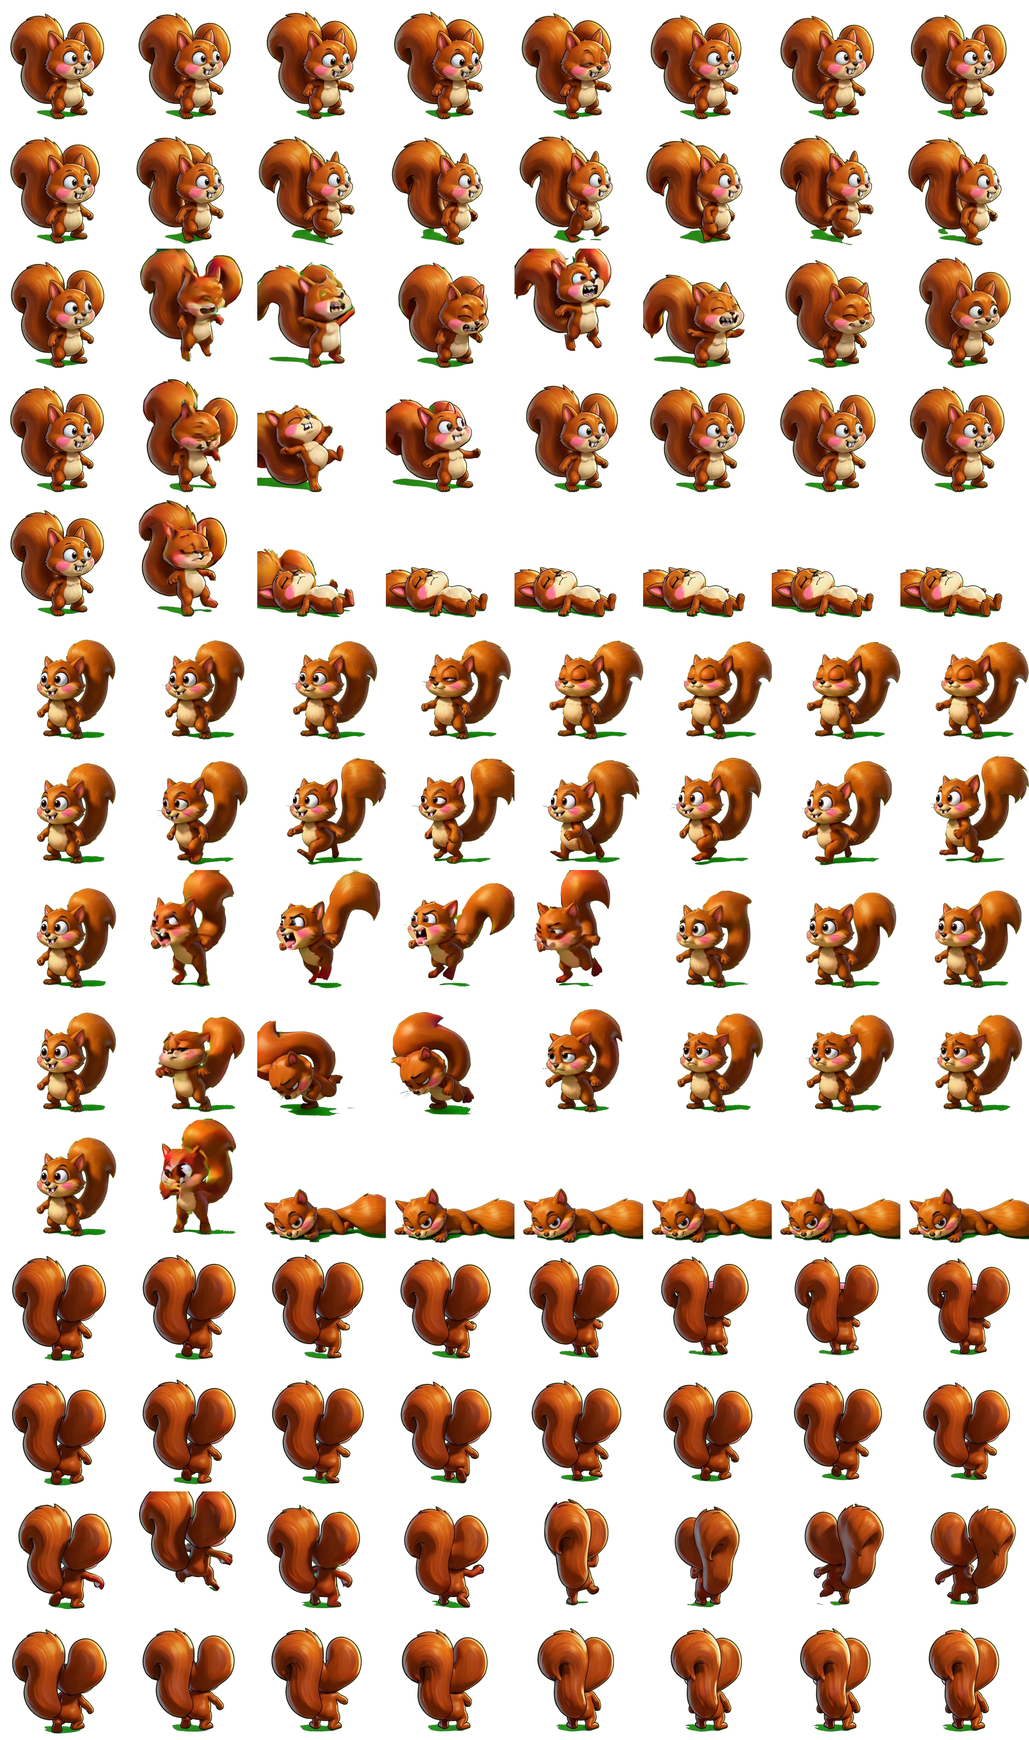
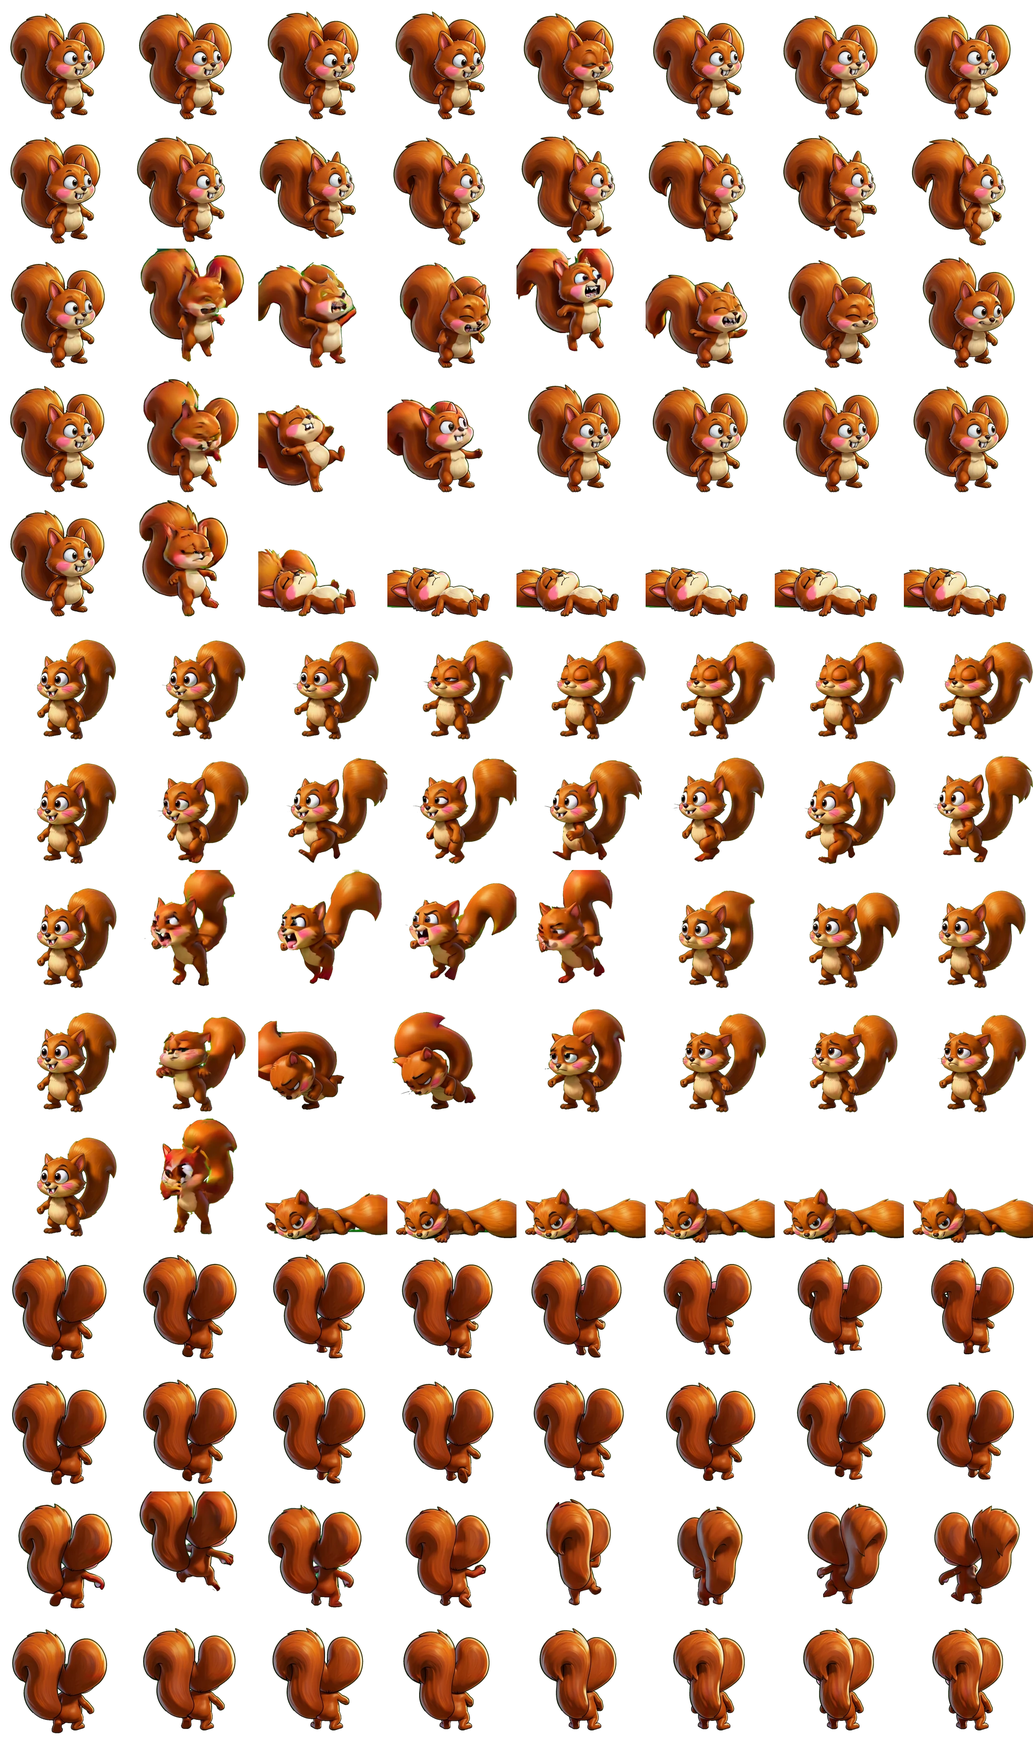
alfa 52dabc2: Rumble v2: BoomBeaver animado y sin la sombra verde de los pies

diff --git a/alfa/demos/rumble-v2/index.html b/alfa/demos/rumble-v2/index.html
@@ -18,7 +18,7 @@
 <!-- core/js/nucleo.js carga lo común y el juego. LA VERSIÓN SE ESCRIBE SOLO AQUÍ, en su ?v= -->
 <!-- GENERADO por herramientas/rumble_v2.py desde games/rumble/index.html: no editar a mano -->
 <script>try { const u = new URL(location.href); if (u.searchParams.get('nube') !== '0') { u.searchParams.set('nube', '0'); history.replaceState(null, '', u); } } catch (e) { /* sin dirección */ }</script>
-<script src="../../core/js/nucleo.js?v=0.9.158-a1021.39779e5"></script>
+<script src="../../core/js/nucleo.js?v=0.9.166-a1022.52dabc2"></script>
 <script>NUCLEO.estilos('../../core/css/menus.css', '../../games/rumble/css/estilos-partida.css', '../../games/rumble/css/estilos-extra.css', '../../games/rumble/css/arena.css', '../../core/css/biblioteca.css', '../../games/rumble/css/facciones-y-jefes.css', '../../core/css/clasificacion.css', '../../games/rumble/css/frases.css', '../../games/rumble/css/mitica.css', '../../games/rumble/css/paletas.css')</script>
 
 </head>
@@ -294,8 +294,7 @@
     <section id="scr-options" class="screen top" hidden>
       <div class="scr-head"><button class="icon-btn back" data-back="scr-title" aria-label="Volver"><svg viewBox="0 0 24 24"><path d="M15 5l-7 7 7 7" stroke="currentColor" stroke-width="3" fill="none" stroke-linecap="round" stroke-linejoin="round"/></svg></button><h2 class="h2 ol">OPCIONES</h2><div class="wallet" data-wallet></div></div>
       <div class="opt-list">
-        <label class="opt-row"><span>Volumen</span><input type="range" id="opt-vol" min="0" max="100" step="5"></label>
-        <label class="opt-row"><span><b>Música</b><br>Al mínimo, se quita.</span><input type="range" id="opt-mus" min="0" max="100" step="5"></label>
+        <div id="opt-sonido" style="display:contents"></div>   <!-- las barras Efectos y Música (OPCIONES.sonido de core), las pone openOptions -->
         <div class="opt-row"><span><b>Música del menú</b><br>La canción que suena en la pantalla principal.</span><button class="btn-ghost ol" id="btn-menumus">ESPERA</button></div>
         <div class="opt-row"><span><b>Idioma / Language</b><br>Automático: el del navegador. Al cambiarlo se recarga la página.</span><span class="idioma-fl" id="idioma-banderas"></span></div>
         <div class="opt-row col"><span><b>Colores del juego</b><br>Los de los menús, los botones y los paneles. Los dibujos de la partida no cambian.</span><div class="pal-opts" id="pal-opts">
@@ -370,11 +369,11 @@
 <script>
 // antes de lo común van los archivos que no dependen de nada (por ahora, las novedades); después, el juego, en este orden
 NUCLEO.juego({
-  antes: ['../../games/rumble/js/ajustes.js', 'js/ajustes-v2.js', '../../games/rumble/js/novedades.js'],
-  idioma: { en: ['../../games/rumble/idioma/en-1.js', '../../games/rumble/idioma/en-2.js', '../../games/rumble/idioma/en-3.js', '../../games/rumble/idioma/en-4.js', '../../games/rumble/idioma/en-5.js', '../../games/rumble/idioma/en-6.js', '../../games/rumble/idioma/en-7.js', '../../games/rumble/idioma/en-8.js', '../../games/rumble/idioma/en-9.js', '../../games/rumble/idioma/en-10.js', '../../games/rumble/idioma/en-11.js', '../../games/rumble/idioma/en-12.js', '../../games/rumble/idioma/en-13.js', '../../games/rumble/idioma/en-14.js', '../../games/rumble/idioma/en-15.js', '../../games/rumble/idioma/en-16.js', '../../games/rumble/idioma/en-17.js', '../../games/rumble/idioma/en-18.js', '../../games/rumble/idioma/en-19.js', '../../games/rumble/idioma/en-20.js', '../../games/rumble/idioma/en-21.js', '../../games/rumble/idioma/en-22.js', '../../games/rumble/idioma/en-avisos.js', '../../games/rumble/idioma/en-habilidades-locas.js'] },
+  antes: ['../../games/rumble/js/ajustes.js', 'js/ajustes-v2.js', '../../games/rumble/js/ajustes-tienda.js', '../../games/rumble/js/novedades.js'],
+  idioma: { en: ['../../games/rumble/idioma/en-1.js', '../../games/rumble/idioma/en-2.js', '../../games/rumble/idioma/en-3.js', '../../games/rumble/idioma/en-4.js', '../../games/rumble/idioma/en-5.js', '../../games/rumble/idioma/en-6.js', '../../games/rumble/idioma/en-7.js', '../../games/rumble/idioma/en-8.js', '../../games/rumble/idioma/en-9.js', '../../games/rumble/idioma/en-10.js', '../../games/rumble/idioma/en-11.js', '../../games/rumble/idioma/en-12.js', '../../games/rumble/idioma/en-13.js', '../../games/rumble/idioma/en-14.js', '../../games/rumble/idioma/en-15.js', '../../games/rumble/idioma/en-16.js', '../../games/rumble/idioma/en-17.js', '../../games/rumble/idioma/en-18.js', '../../games/rumble/idioma/en-19.js', '../../games/rumble/idioma/en-20.js', '../../games/rumble/idioma/en-21.js', '../../games/rumble/idioma/en-22.js', '../../games/rumble/idioma/en-avisos.js', '../../games/rumble/idioma/en-habilidades-locas.js', '../../games/rumble/idioma/en-tienda-gemas.js'] },
   despues: [
     '../../games/rumble/js/01-campo.js', '../../games/rumble/js/01b-unidades.js', '../../games/rumble/js/01c-cartas.js', '../../games/rumble/js/02a-objetos.js', '../../games/rumble/js/02b-mundos.js', '../../games/rumble/js/02c-chat.js', '../../games/rumble/js/02d-chat-rival.js', '../../games/rumble/js/02e-guardado.js', '../../games/rumble/js/04-estado.js', '../../games/rumble/js/04b-simulacion.js', '../../games/rumble/js/05-audio.js', '../../games/rumble/js/05b-creadores-datos.js', '../../games/rumble/js/05c-creadores-arte.js', '../../games/rumble/js/06a-despliegue.js', '../../games/rumble/js/06b-movimiento.js', '../../games/rumble/js/06c-dano.js', '../../games/rumble/js/06d-unidades.js', '../../games/rumble/js/06f-sanadores.js', '../../games/rumble/js/06e-ia-y-partida.js', '../../games/rumble/js/06g-ia-tacticas.js', '../../games/rumble/js/06h-habilidades-locas.js', '../../games/rumble/js/07a-escena.js', '../../games/rumble/js/07b-unidades.js', '../../games/rumble/js/07c-edificios-y-disparos.js', '../../games/rumble/js/07d-particulas.js', '../../games/rumble/js/07e-brillos.js', '../../games/rumble/js/07f-objetos-nuevos.js', '../../games/rumble/js/07g-habilidades-locas-dibujo.js',
-    '../../games/rumble/js/08-controles.js', '../../games/rumble/js/09a-chat-y-campana.js', '../../games/rumble/js/09b-recompensas-y-hud.js', '../../games/rumble/js/09c-pantallas.js', '../../games/rumble/js/09d-faccion-nueva.js', '../../games/rumble/js/10-dificultad.js', '../../games/rumble/js/10b-ruleta.js', '../../games/rumble/js/10c-rapida-ceo.js', '../../games/rumble/js/10d-mitica-semanal.js', '../../games/rumble/js/retos.js', '../../games/rumble/js/retos-perfil.js', '../../games/rumble/js/retos-logros.js', '../../games/rumble/js/retos-armario.js', '../../games/rumble/js/retos-logros-2.js', '../../core/js/retos.js', '../../core/js/pases.js', '../../core/js/retos-pantallas.js', '../../core/js/armario.js', '../../core/js/frases.js', '../../core/js/frases-arte.js', '../../games/rumble/js/11-logros.js', '../../games/rumble/js/11b-consejos.js', '../../games/rumble/js/12-app-y-preparacion.js', '../../games/rumble/js/12c-paletas.js', '../../games/rumble/js/13-horas-extra.js',
+    '../../games/rumble/js/08-controles.js', '../../games/rumble/js/09a-chat-y-campana.js', '../../games/rumble/js/09b-recompensas-y-hud.js', '../../games/rumble/js/09c-pantallas.js', '../../games/rumble/js/09d-faccion-nueva.js', '../../games/rumble/js/10-dificultad.js', '../../games/rumble/js/10b-ruleta.js', '../../games/rumble/js/10c-rapida-ceo.js', '../../games/rumble/js/10d-mitica-semanal.js', '../../games/rumble/js/retos.js', '../../games/rumble/js/retos-perfil.js', '../../games/rumble/js/retos-logros.js', '../../games/rumble/js/retos-armario.js', '../../games/rumble/js/retos-logros-2.js', '../../core/js/retos.js', '../../core/js/pases.js', '../../core/js/retos-pantallas.js', '../../core/js/armario.js', '../../core/js/frases.js', '../../core/js/frases-arte.js', '../../core/js/sistema/tienda-fija-reglas.js', '../../core/js/sistema/tienda-fija.js', '../../games/rumble/js/11-logros.js', '../../games/rumble/js/11b-consejos.js', '../../games/rumble/js/12-app-y-preparacion.js', '../../games/rumble/js/12c-paletas.js', '../../games/rumble/js/13-horas-extra.js',
     '../../games/rumble/js/14a-hechizos.js', '../../games/rumble/js/14d-hechizos-dibujos.js', '../../games/rumble/js/14b-gachapon-y-mazo.js', '../../games/rumble/js/14c-modo-jefe.js', '../../games/rumble/js/15-anuncios.js', '../../games/rumble/js/16-camara.js', '../../games/rumble/js/17a-campos.js', '../../games/rumble/js/17b-campos-dibujo.js', '../../games/rumble/js/18-sala.js', '../../games/rumble/js/19-arena.js', '../../games/rumble/js/19b-pvp.js', '../../games/rumble/js/19c-vista.js', '../../games/rumble/js/19d-pvp-red.js', '../../games/rumble/js/19e-pvp-pantallas.js', '../../games/rumble/js/19f-pvp-servidor.js', '../../games/rumble/js/clasificacion.js', '../../core/js/clasificacion.js',
     '../../games/rumble/js/20-iahorro-final.js', '../../games/rumble/js/20c-app-nativa.js', '../../games/rumble/js/20d-avisos.js', 'js/anim-v2.js', 'js/arte-v2.js', 'js/animar-v2.js', '../../games/rumble/js/21-arranque.js', '../../games/rumble/js/22-frases.js'],
 });

diff --git a/alfa/index.html b/alfa/index.html
@@ -12,10 +12,10 @@
 <link rel="preconnect" href="https://fonts.googleapis.com">
 <link rel="preconnect" href="https://fonts.gstatic.com" crossorigin>
 <link rel="stylesheet" href="https://fonts.googleapis.com/css2?family=Baloo+2:wght@600;700;800&family=Luckiest+Guy&display=swap">
-<link rel="stylesheet" href="core/css/base.css?v=39779e5">
-<link rel="stylesheet" href="biblioteca/tienda.css?v=39779e5">
-<link rel="stylesheet" href="novedades/ventana.css?v=39779e5">
-<link rel="stylesheet" href="biblioteca/votos.css?v=39779e5">
+<link rel="stylesheet" href="core/css/base.css?v=52dabc2">
+<link rel="stylesheet" href="biblioteca/tienda.css?v=52dabc2">
+<link rel="stylesheet" href="novedades/ventana.css?v=52dabc2">
+<link rel="stylesheet" href="biblioteca/votos.css?v=52dabc2">
 <style>
   /* la entrada de la web: una tarjeta por juego, con los colores y las letras de core */
   body { overflow: auto; touch-action: auto; align-items: flex-start; background-repeat: no-repeat; background-attachment: fixed; }
@@ -63,7 +63,7 @@
 </style>
 </head>
 <body>
-<script src="menu.js?v=39779e5" data-base="" data-core="1" data-pagina=""></script>
+<script src="menu.js?v=52dabc2" data-base="" data-core="1" data-pagina=""></script>
 <div class="nov-fondo" id="novedades" hidden>
   <div class="nov-caja" role="dialog" aria-modal="true" aria-labelledby="nov-titulo">
     <div class="nov-cabeza"><h2 class="ol" id="nov-titulo">NOVEDADES</h2><p id="nov-sub"></p></div>
@@ -366,8 +366,8 @@
   </section>
   <p class="note" id="pie-fansof">Fans Of™ · © 2026 Arkioner y Pepins · MicroBlizz · Todos los derechos reservados</p>
 </main>
-<script src="core/js/nucleo.js?v=0-a1021.39779e5"></script>
-<script src="core/js/novedades.js?v=39779e5"></script>
+<script src="core/js/nucleo.js?v=0-a1022.52dabc2"></script>
+<script src="core/js/novedades.js?v=52dabc2"></script>
 <script>
 // La cuenta de la web es la misma de los juegos (core/js/sistema/cuenta.js, mismo navegador = misma sesión). Aquí no hay partida que subir.
 const AJUSTES = { id: 'web', guardado: 'fansof-web' }, SAVE_KEY = AJUSTES.guardado, SAVE = {};
@@ -376,7 +376,7 @@ const HOOKS = {};
 function hook(name, fn) { (HOOKS[name] = HOOKS[name] || []).push(fn); }
 function fire(name, ...a) { let out = ''; for (const fn of HOOKS[name] || []) { const r = fn(...a); if (typeof r === 'string') out += r; } return out; }
 </script>
-<script src="core/js/sistema/cuenta.js?v=39779e5"></script>
+<script src="core/js/sistema/cuenta.js?v=52dabc2"></script>
 <script>NUCLEO.idiomaSolo({ en: ['core/idioma/en-raiz.js', 'novedades/en.js', 'biblioteca/en.js','games/rumble/idioma/en-7.js', 'games/td/idioma/en-2.js', 'games/survivors/idioma/en.js', 'games/crush/idioma/en-raiz.js', 'games/jump/idioma/en-raiz.js', 'games/taxi/idioma/en-raiz.js', 'games/dark/idioma/en-raiz.js', 'games/nova/idioma/en-raiz.js', 'games/nova/idioma/en-raiz-2.js', 'demos/beams/idioma/en-raiz.js', 'demos/snakes/idioma/en-raiz.js', 'demos/merge/idioma/en-raiz.js', 'demos/swipe/idioma/en-raiz.js', 'demos/pop/idioma/en-raiz.js', 'demos/vikings/idioma/en-raiz.js', 'demos/goose/idioma/en-raiz.js', 'demos/asalto/idioma/en-raiz.js', 'demos/auto/idioma/en-raiz.js', 'demos/shelter/idioma/en-raiz.js', 'demos/soccer/idioma/en-raiz.js', 'demos/air/idioma/en-raiz.js', 'demos/basement/idioma/en-raiz.js', 'games/island/idioma/en-raiz.js', 'demos/rumble-3d/idioma/en-raiz.js', 'demos/roguelite/idioma/en-raiz.js', 'demos/tactics-advance/idioma/en-raiz.js', 'games/rouflage/idioma/en-raiz.js', 'demos/dungeons/idioma/en-raiz.js', 'games/karts/idioma/en-raiz.js', 'demos/recruit/idioma/en-raiz.js', 'demos/terminal-shock/idioma/en-raiz.js', 'games/ratkov/idioma/en-raiz.js'] })</script>
 <script>
 // La versión y las novedades salen de los archivos de cada juego, así que esta página nunca se queda atrás.
@@ -402,14 +402,14 @@ const fail = id => () => {
 };
 
 </script>
-<script src="core/js/proximamente.js?v=39779e5"></script>
-<script src="novedades/ventana.js?v=39779e5"></script>
-<script src="biblioteca/tienda.js?v=39779e5"></script>
-<script src="core/js/sistema/beta.js?v=39779e5"></script>
-<script src="biblioteca/cuenta-web.js?v=39779e5"></script>
-<script src="biblioteca/votos.js?v=39779e5"></script>
-<script src="biblioteca/alfa.js?v=39779e5"></script>
-<script src="core/js/sistema/analitica.js?v=39779e5"></script>
-<script src="pie.js?v=39779e5" defer></script>
+<script src="core/js/proximamente.js?v=52dabc2"></script>
+<script src="novedades/ventana.js?v=52dabc2"></script>
+<script src="biblioteca/tienda.js?v=52dabc2"></script>
+<script src="core/js/sistema/beta.js?v=52dabc2"></script>
+<script src="biblioteca/cuenta-web.js?v=52dabc2"></script>
+<script src="biblioteca/votos.js?v=52dabc2"></script>
+<script src="biblioteca/alfa.js?v=52dabc2"></script>
+<script src="core/js/sistema/analitica.js?v=52dabc2"></script>
+<script src="pie.js?v=52dabc2" defer></script>
 </body>
 </html>

diff --git a/alfa/demos/rumble-v2/js/anim-v2.js b/alfa/demos/rumble-v2/js/anim-v2.js
@@ -3,4 +3,4 @@
 // n = fotogramas por animación, alto = píxeles que mide el personaje quieto, pies = [x, y] del apoyo en la celda
 // para cada lado, filas = qué animación es cada fila. arte-v2.js pinta el fotograma que toca.
 'use strict';
-const V2_ANIM = {"bunny":{"celda":[252,242],"n":8,"alto":220,"pies":{"der":[123,233],"izq":[147,228],"esp":[117,240]},"filas":["der-quieto","der-andar","der-atacar","der-golpe","der-morir","izq-quieto","izq-andar","izq-atacar","izq-golpe","izq-morir","esp-quieto","esp-andar","esp-atacar","esp-golpe"]},"squirrel":{"celda":[268,259],"n":8,"alto":220,"pies":{"der":[119,248],"izq":[156,246],"esp":[123,246]},"filas":["der-quieto","der-andar","der-atacar","der-golpe","der-morir","izq-quieto","izq-andar","izq-atacar","izq-golpe","izq-morir","esp-quieto","esp-andar","esp-atacar","esp-golpe"]}};
+const V2_ANIM = {"bunny":{"celda":[253,242],"n":8,"alto":220,"pies":{"der":[124,233],"izq":[148,229],"esp":[117,236]},"filas":["der-quieto","der-andar","der-atacar","der-golpe","der-morir","izq-quieto","izq-andar","izq-atacar","izq-golpe","izq-morir","esp-quieto","esp-andar","esp-atacar","esp-golpe"]},"squirrel":{"celda":[269,259],"n":8,"alto":220,"pies":{"der":[120,248],"izq":[156,246],"esp":[124,245]},"filas":["der-quieto","der-andar","der-atacar","der-golpe","der-morir","izq-quieto","izq-andar","izq-atacar","izq-golpe","izq-morir","esp-quieto","esp-andar","esp-atacar","esp-golpe"]},"beaver":{"celda":[283,243],"n":8,"alto":220,"pies":{"der":[141,235],"izq":[136,234]},"filas":["der-quieto","der-andar","der-atacar","der-golpe","der-morir","izq-quieto","izq-andar","izq-atacar","izq-golpe","izq-morir"]}};

diff --git a/alfa/games/rouflage/index.html b/alfa/games/rouflage/index.html
@@ -10,7 +10,7 @@
 <link rel="preconnect" href="https://fonts.googleapis.com">
 <link rel="preconnect" href="https://fonts.gstatic.com" crossorigin>
 <link rel="stylesheet" href="https://fonts.googleapis.com/css2?family=Baloo+2:wght@600;700;800&family=Luckiest+Guy&display=swap">
-<script src="../../core/js/nucleo.js?v=0.2.73-a1021.39779e5"></script>
+<script src="../../core/js/nucleo.js?v=0.2.73-a1022.52dabc2"></script>
 <script>NUCLEO.estilos('../../core/css/base.css', '../../core/css/menus.css', '../../core/css/menus-extra.css')</script>
 <script>NUCLEO.estilos('estilo.css', 'estilo-taller.css', 'estilo-pantallas.css', 'estilo-pvp.css', 'estilo-armario.css', 'estilo-menus.css', 'estilo-misiones.css', 'estilo-escenario.css', 'estilo-votos.css', 'estilo-gacha.css', 'estilo-compra.css', 'estilo-fin.css', 'estilo-talentos.css', 'estilo-chat.css', 'estilo-titulo.css', 'estilo-tienda.css', 'estilo-barras.css', 'estilo-tarjetas.css', 'estilo-barra.css', 'estilo-sala-viva.css', 'estilo-obra.css', 'estilo-ayuda.css', 'estilo-pintura.css', 'estilo-carga.css')</script>      <!-- la intro, la última: pisa el #carga de estilo.css (antes iba en línea dentro de #carga) -->
 </head>

diff --git a/alfa/games/karts/index.html b/alfa/games/karts/index.html
@@ -8,7 +8,7 @@
 <meta name="description" content="Fans of Karts (juego): carreras de karts en pixel art de consola portátil con los líderes de Fans of Rumble. Tres pistas, seis pilotos, objetos con mala idea y Microblizz, que ha comprado la carrera.">
 <link rel="icon" type="image/png" href="img/favicon.png">
 <link rel="apple-touch-icon" href="img/icon-192.png">
-<script src="../../core/js/nucleo.js?v=0.7.23-a1021.39779e5"></script>
+<script src="../../core/js/nucleo.js?v=0.7.23-a1022.52dabc2"></script>
 <script>NUCLEO.estilos('../../core/css/base.css', '../../core/css/menus.css', '../../core/css/menus-tienda.css', '../../core/css/menus-extra.css', 'css/tienda.css', 'css/pvp.css')</script>
 <link rel="stylesheet" href="https://fonts.googleapis.com/css2?family=Baloo+2:wght@600;700;800&family=Luckiest+Guy&display=swap">
 <style>

diff --git a/alfa/games/dark/index.html b/alfa/games/dark/index.html
@@ -12,7 +12,7 @@
 <link rel="stylesheet" href="https://fonts.googleapis.com/css2?family=Baloo+2:wght@600;700;800&family=Luckiest+Guy&family=Press+Start+2P&family=Pixelify+Sans:wght@400;600;700&display=swap">
 <link rel="stylesheet" href="css/dark.css?v=0.2.4">
 <!-- Prototipo: no usa NUCLEO (tiene su propia partida guardada). Carga de core el arte, la música, los efectos y las cifras del Rumble.
-     VERSIÓN para desplegar.py (que la busca así): nucleo.js?v=0.2.7-a1021.39779e5' (aquí solo se anota; súbela junto al ?v= de los scripts). -->
+     VERSIÓN para desplegar.py (que la busca así): nucleo.js?v=0.2.7-a1022.52dabc2' (aquí solo se anota; súbela junto al ?v= de los scripts). -->
 </head>
 <body>
 <canvas id="cv" aria-label="Mazmorra"></canvas>

diff --git a/alfa/games/rumble/index.html b/alfa/games/rumble/index.html
@@ -16,7 +16,7 @@
 <link rel="preconnect" href="https://fonts.gstatic.com" crossorigin>
 <link rel="stylesheet" href="https://fonts.googleapis.com/css2?family=Baloo+2:wght@600;700;800&family=Luckiest+Guy&display=swap">
 <!-- core/js/nucleo.js carga lo común y el juego. LA VERSIÓN SE ESCRIBE SOLO AQUÍ, en su ?v= -->
-<script src="../../core/js/nucleo.js?v=0.9.166-a1021.39779e5"></script>
+<script src="../../core/js/nucleo.js?v=0.9.166-a1022.52dabc2"></script>
 <script>NUCLEO.estilos('../../core/css/menus.css', 'css/estilos-partida.css', 'css/estilos-extra.css', 'css/arena.css', '../../core/css/biblioteca.css', 'css/facciones-y-jefes.css', '../../core/css/clasificacion.css', 'css/frases.css', 'css/mitica.css', 'css/paletas.css')</script>
 
 </head>

diff --git a/alfa/games/jump/index.html b/alfa/games/jump/index.html
@@ -12,7 +12,7 @@
 <link rel="preconnect" href="https://fonts.gstatic.com" crossorigin>
 <link rel="stylesheet" href="https://fonts.googleapis.com/css2?family=Baloo+2:wght@600;700;800&family=Luckiest+Guy&display=swap">
 <!-- ?v= es la versión del juego (la misma en la web y en la app): súbela al publicar y pon su entrada en js/novedades.js -->
-<script src="../../core/js/nucleo.js?v=0.3.24-a1021.39779e5"></script>
+<script src="../../core/js/nucleo.js?v=0.3.24-a1022.52dabc2"></script>
 <script>NUCLEO.estilos('../../core/css/base.css', '../../core/css/menus.css')</script>
 <style>
 /* Fans of Jump: un solo canvas a la resolución real de la pantalla, con los dibujos 3D. El mundo mide unos 200 de ancho y se

diff --git a/alfa/games/decks/index.html b/alfa/games/decks/index.html
@@ -15,7 +15,7 @@
 <link rel="preconnect" href="https://fonts.gstatic.com" crossorigin>
 <link rel="stylesheet" href="https://fonts.googleapis.com/css2?family=Baloo+2:wght@600;700;800&family=Luckiest+Guy&display=swap">
 <!-- core/js/nucleo.js carga lo común y el juego. LA VERSIÓN SE ESCRIBE SOLO AQUÍ, en su ?v= -->
-<script src="../../core/js/nucleo.js?v=0.2.29-a1021.39779e5"></script>
+<script src="../../core/js/nucleo.js?v=0.2.29-a1022.52dabc2"></script>
 <script>NUCLEO.estilos('../../core/css/base.css', '../../core/css/menus.css', 'css/decks.css', 'css/decks-reunion.css', 'css/decks-anim.css', 'css/decks-campana.css', 'css/decks-lideres.css')</script>
 </head>
 <body>

diff --git a/alfa/games/ratkov/index.html b/alfa/games/ratkov/index.html
@@ -13,7 +13,7 @@
 <link rel="preconnect" href="https://fonts.gstatic.com" crossorigin>
 <link rel="stylesheet" href="https://fonts.googleapis.com/css2?family=VT323&family=Russo+One&display=swap">
 <script src="https://cdnjs.cloudflare.com/ajax/libs/three.js/r128/three.min.js"></script>
-<script src="../../core/js/nucleo.js?v=0.2.37-a1021.39779e5"></script>
+<script src="../../core/js/nucleo.js?v=0.2.37-a1022.52dabc2"></script>
 <script>NUCLEO.estilos('../../core/css/base.css', '../../core/css/menus.css')</script>
 <link rel="stylesheet" href="estilo.css?v=0.2.3">
 <link rel="stylesheet" href="estilo-refugio.css?v=0.2.3">

diff --git a/alfa/games/survivors/index.html b/alfa/games/survivors/index.html
@@ -15,7 +15,7 @@
 <link rel="preconnect" href="https://fonts.gstatic.com" crossorigin>
 <link rel="stylesheet" href="https://fonts.googleapis.com/css2?family=Baloo+2:wght@600;700;800&family=Luckiest+Guy&display=swap">
 <!-- core/js/nucleo.js carga lo común y el juego. LA VERSIÓN SE ESCRIBE SOLO AQUÍ, en su ?v= -->
-<script src="../../core/js/nucleo.js?v=0.1.79-a1021.39779e5"></script>
+<script src="../../core/js/nucleo.js?v=0.1.79-a1022.52dabc2"></script>
 <script>NUCLEO.estilos('../../core/css/base.css', '../../core/css/menus.css', 'css/survivors.css', '../../core/css/biblioteca.css')</script>
 </head>
 <body>

diff --git a/alfa/games/td/index.html b/alfa/games/td/index.html
@@ -15,7 +15,7 @@
 <link rel="preconnect" href="https://fonts.gstatic.com" crossorigin>
 <link rel="stylesheet" href="https://fonts.googleapis.com/css2?family=Baloo+2:wght@600;700;800&family=Luckiest+Guy&display=swap">
 <!-- core/js/nucleo.js carga lo común y el juego. LA VERSIÓN SE ESCRIBE SOLO AQUÍ, en su ?v= -->
-<script src="../../core/js/nucleo.js?v=0.13.95-a1021.39779e5"></script>
+<script src="../../core/js/nucleo.js?v=0.13.95-a1022.52dabc2"></script>
 <script>NUCLEO.estilos('../../core/css/base.css', 'css/td.css', '../../core/css/menus.css', '../../core/css/biblioteca.css')</script>
 </head>
 <body>
